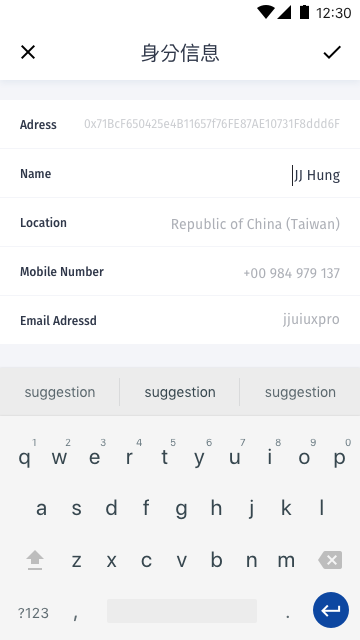
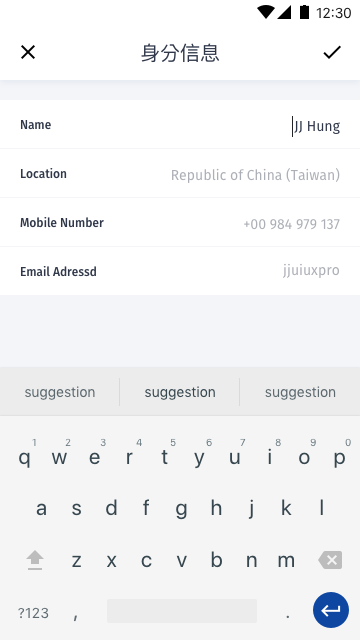
update

diff --git a/requirements/setting-profile.md b/requirements/setting-profile.md
@@ -2,8 +2,24 @@
 
 # 用戶信息 Profile
 
-![用戶信息](../assets/screen-id-profile.png)
-![用戶信息](../assets/screen-id-profile-edit-modle.png)
-![用戶信息](../assets/screen-id-profile-edit-modle-keyboald.png)
+* 画面
+
+	* 信息
+		
+		![用戶信息](../assets/screen-id-profile.png)
+	
+	* 编辑模式
+
+		![用戶信息](../assets/screen-id-profile-edit-modle.png)
+		![用戶信息](../assets/screen-id-profile-edit-modle-keyboald.png)
+
+* 栏位
+
+	栏位 | 实例 | 初始值 | 类型 | 规则与描述
+	------------- | ------------- | ------------- | ------------- | -------------
+	用户名 |  | | |
+	地区 |  | | |
+	行动电话 |  | | | 正式上线需支援验证
+	电子邮件信箱 |  | | | 正式上线需支援验证
 
 [ReadMe](../README.md) / [需求規格](../requirements.md) / [数字身分 Identity](identity.md) / [设置](identity-setting.md) / 用戶信息 Profile

diff --git a/requirements/id-address.md b/requirements/id-address.md
@@ -1,0 +1,17 @@
+[ReadMe](../README.md) / [需求規格](../requirements.md) / [数字身分 Identity](identity.md) / [设置](identity-setting.md) / 用户地址 Address
+
+# 用户地址 Address
+
+* 画面
+
+	* 信息
+		
+		![用戶信息](../assets/screen-id-address.png)
+
+* 栏位
+
+	栏位 | 实例 | 初始值 | 类型 | 规则与描述
+	------------- | ------------- | ------------- | ------------- | -------------
+	Address |  | | | (仅检视，无法编辑)
+
+[ReadMe](../README.md) / [需求規格](../requirements.md) / [数字身分 Identity](identity.md) / [设置](identity-setting.md) / 用户地址 Address

diff --git a/requirements/identity-setting.md b/requirements/identity-setting.md
@@ -24,12 +24,14 @@
 	
 	* IDHub 身分
 
-	栏位 | 实例 | 初始值 | 类型 | 规则与描述
-	------------- | ------------- | ------------- | ------------- | -------------
-	头像 |  | | |
-	用户名 |  | | |
-	地址 |  | | |
+		栏位 | 实例 | 初始值 | 类型 | 规则与描述
+		------------- | ------------- | ------------- | ------------- | -------------
+		头像 |  | | |
+		用户名 |  | | |
+		地址 |  | | |
 	
+		* [用户地址 Address](id-address.md)
+
 	* 功能
 
 		* [用戶信息 Profile](setting-profile.md)
